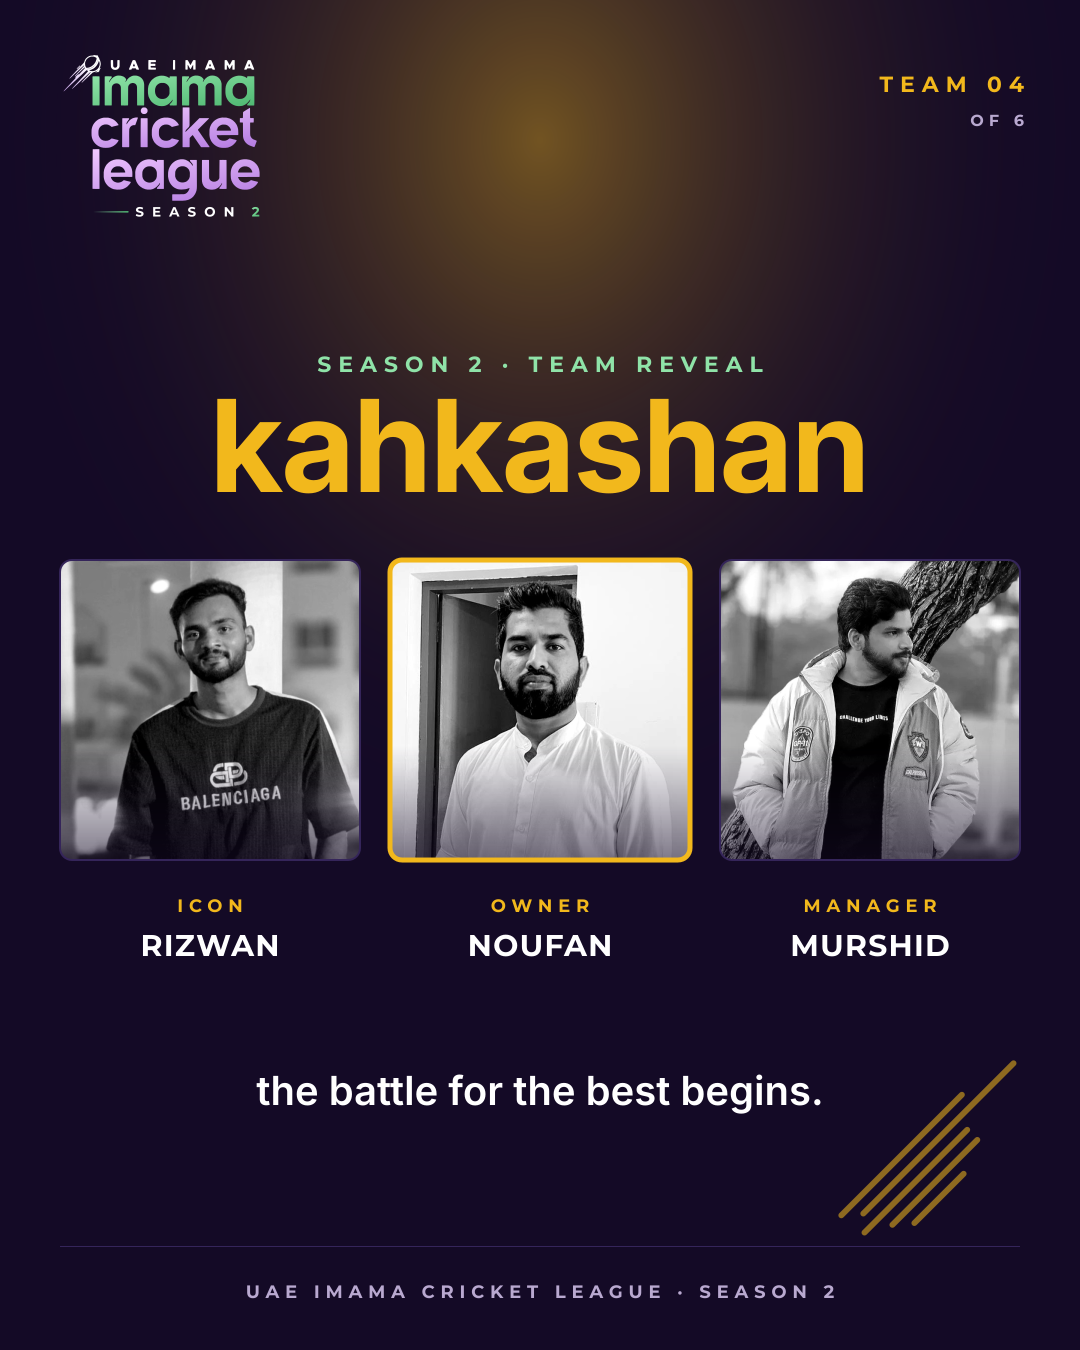
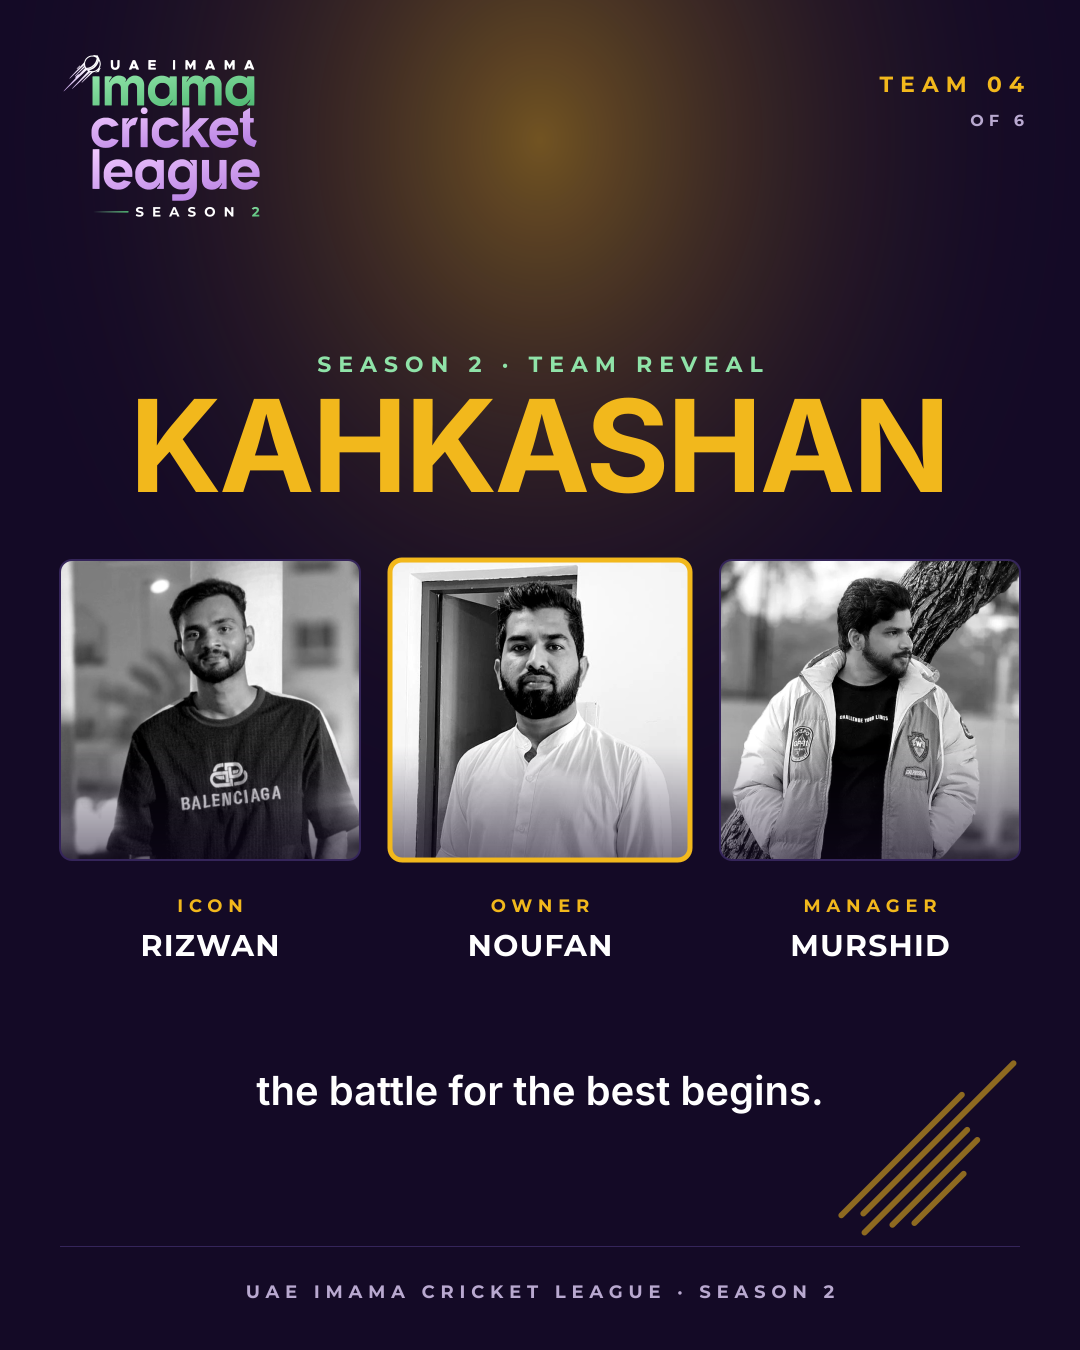
Team reveal: set team names in capitals
Claude-Session: https://claude.ai/code/session_01SwyQDQjSwhzbvubs2RWco5

Changed region(s): [[0.1222, 0.28, 0.8861, 0.3733]]

diff --git a/promo/team-reveal/source/make_team_reveal.py b/promo/team-reveal/source/make_team_reveal.py
@@ -52,9 +52,10 @@ def name_text(x, y, text, max_w, size, fill='#ffffff', anchor='middle'):
 
 
 def team_title(x, y, t, max_w, size, anchor='middle'):
-    a, b = t['name']
+    a, b = (n.upper() for n in t['name'])
     label = f'{a} {b}'.strip()
-    size = min(size, max_w / (len(label) * 0.62))
+    # Montserrat Alternates Bold caps average ~0.74em per glyph
+    size = min(size, max_w / (len(label) * 0.74))
     tail = f'<tspan dx="{size*0.26:.1f}" fill="{t["colors"][1]}">{esc(b)}</tspan>' if b else ''
     return (f'<text x="{x}" y="{y}" font-family="Montserrat Alternates" font-weight="700" font-size="{size:.1f}" '
             f'letter-spacing="{-size*0.02:.1f}" fill="{t["colors"][0]}" text-anchor="{anchor}">{esc(a)}{tail}</text>')
